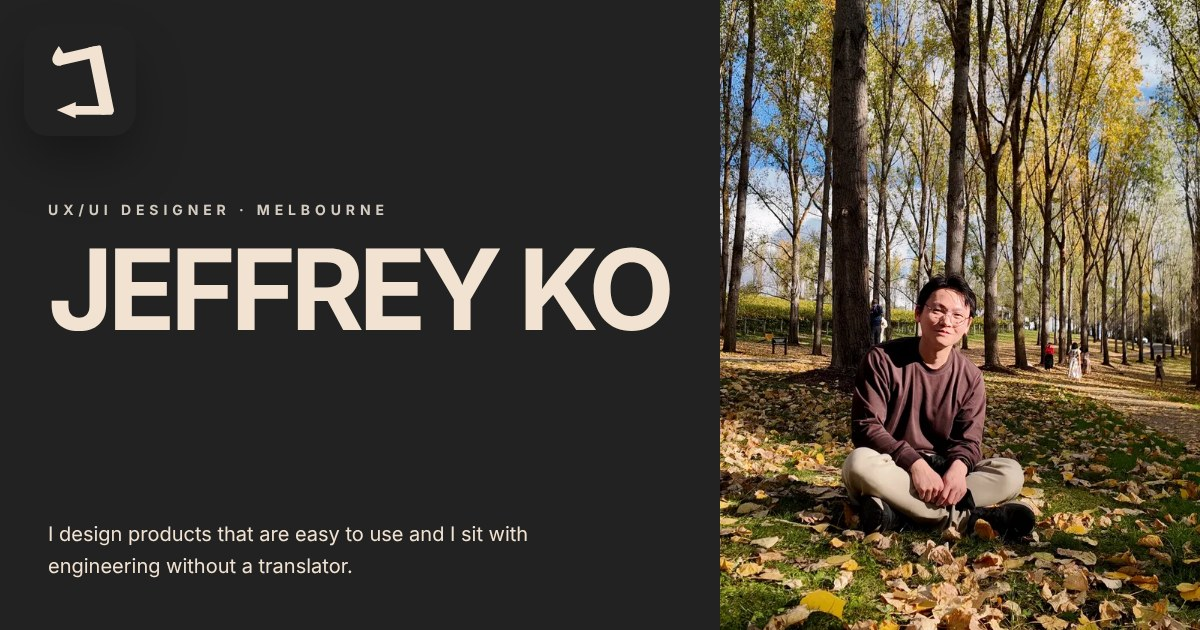
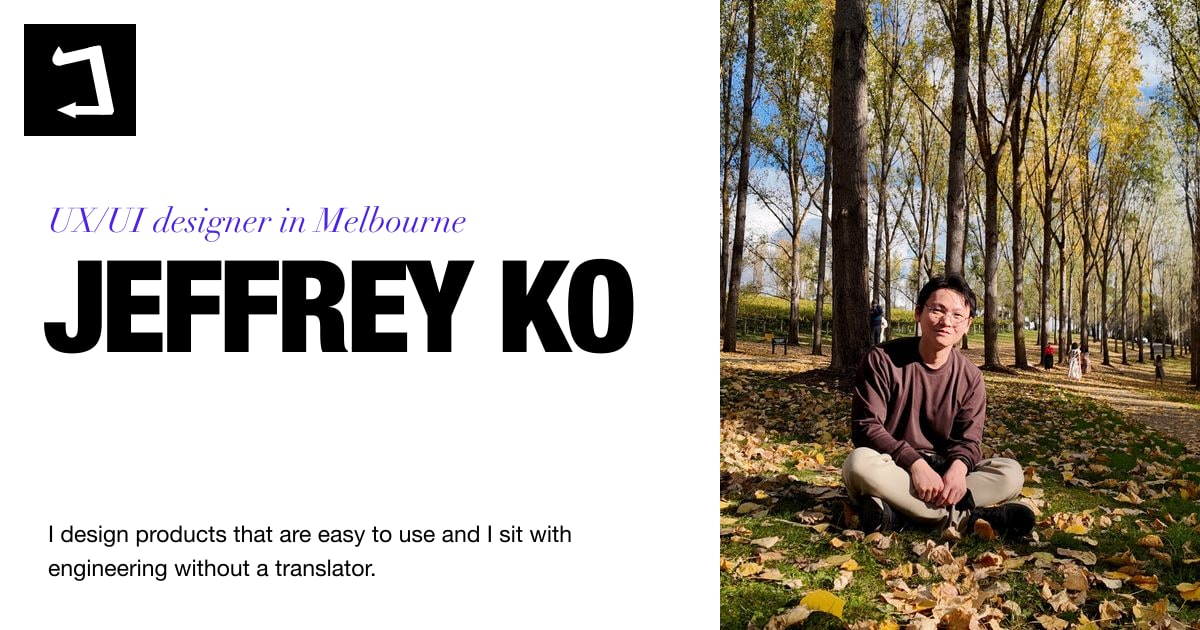
content(seo): rebuild the link preview image in the new look
White hero, black condensed name and the violet italic lead-in, matching
the redesigned home page. The ?v=2 makes LinkedIn and Slack fetch it again.

diff --git a/app/layout.tsx b/app/layout.tsx
@@ -138,7 +138,7 @@ export const metadata: Metadata = {
     // replaces came out as a cropped strip of trees.
     images: [
       {
-        url: '/og-image.jpg',
+        url: '/og-image.jpg?v=2',
         width: 1200,
         height: 630,
         alt: 'Jeffrey Ko, UX/UI designer in Melbourne',
@@ -150,7 +150,7 @@ export const metadata: Metadata = {
     title: 'Jeffrey Ko — UX/UI Designer',
     description:
       'UX/UI designer in Melbourne. I design products that are easy to use and I sit with engineering without a translator.',
-    images: ['/og-image.jpg'],
+    images: ['/og-image.jpg?v=2'],
   },
   alternates: { canonical: '/' },
   icons: {
